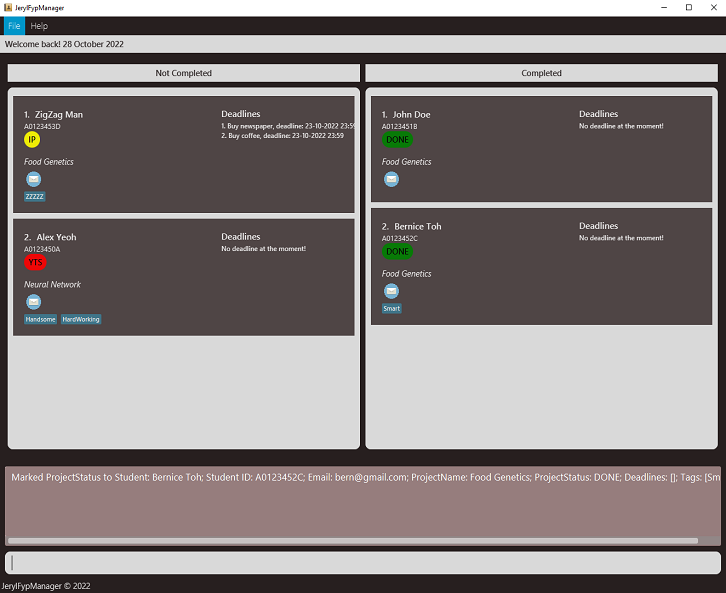
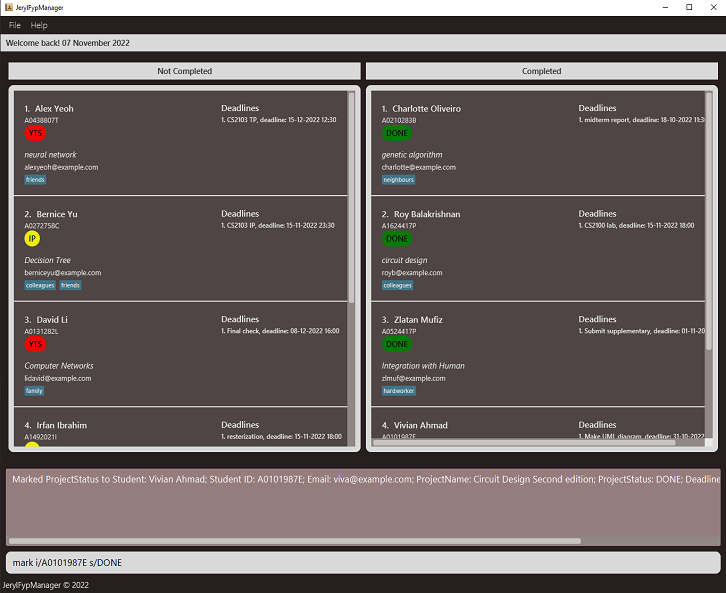
Modify sample data and UI preview picture

diff --git a/src/main/java/jeryl/fyp/model/util/SampleDataUtil.java b/src/main/java/jeryl/fyp/model/util/SampleDataUtil.java
@@ -50,7 +50,16 @@ public class SampleDataUtil {
                     getDeadlineList("resterization", "15-11-2022 18:00"), getTagSet("classmates")),
             new Student(new StudentName("Roy Balakrishnan"), new StudentId("A1624417P"), new Email("royb@example.com"),
                 new ProjectName("circuit design"), new ProjectStatus("DONE"),
-                    getDeadlineList("CS2100 lab", "15-11-2022 18:00"), getTagSet("colleagues"))
+                    getDeadlineList("CS2100 lab", "15-11-2022 18:00"), getTagSet("colleagues")),
+            new Student(new StudentName("Zlatan Mufiz"), new StudentId("A0524417P"), new Email("zlmuf@example.com"),
+                new ProjectName("Integration with Human"), new ProjectStatus("DONE"),
+                    getDeadlineList("Submit supplementary", "2022/11/01 18:00"), getTagSet("hardworker")),
+            new Student(new StudentName("Apple Setiawan"), new StudentId("A0293017S"), new Email("apps@example.com"),
+                new ProjectName("into the future Techies"), new ProjectStatus("IP"),
+                    getDeadlineList("print thesis", "13-11-2022 23:44"), getTagSet("ap", "bp")),
+            new Student(new StudentName("Vivian Ahmad"), new StudentId("A0101987E"), new Email("viva@example.com"),
+                new ProjectName("Circuit Design Second edition"), new ProjectStatus("IP"),
+                    getDeadlineList("Make UML diagram", "31-10-2022 11:45"), getTagSet("VeryLate"))
         };
     }
 
